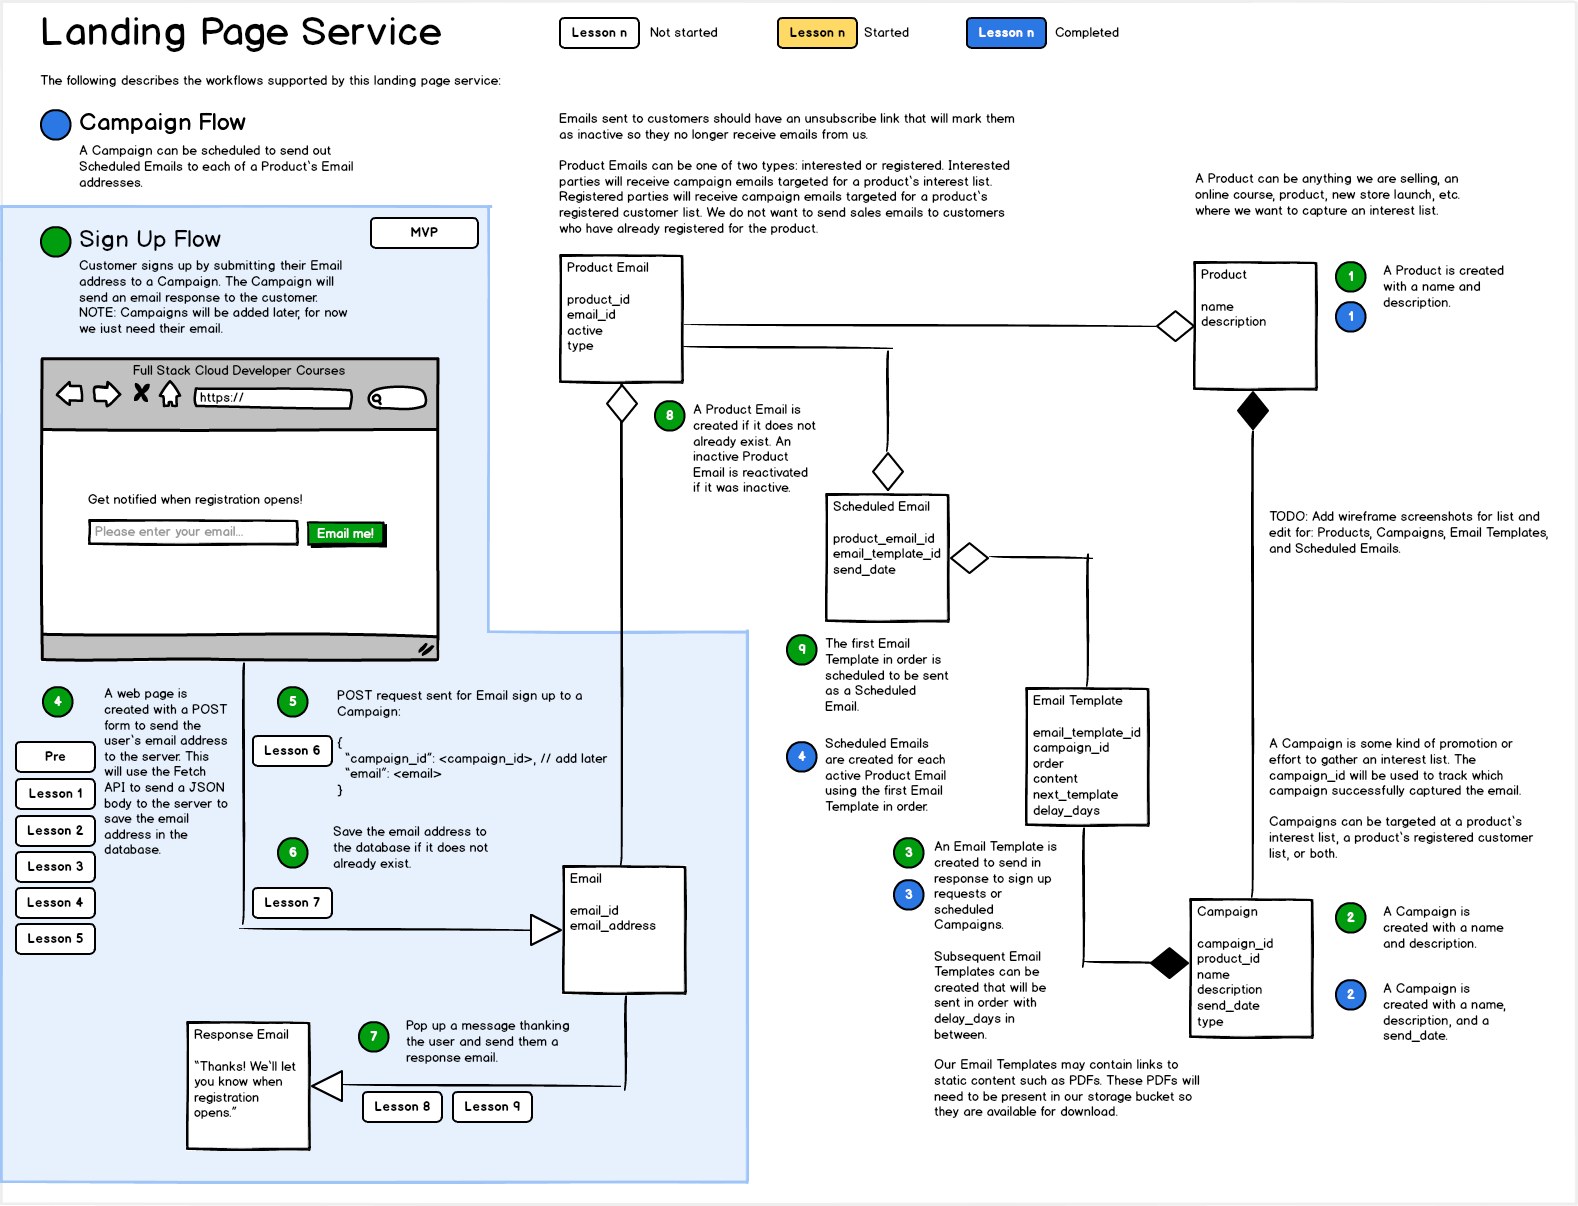
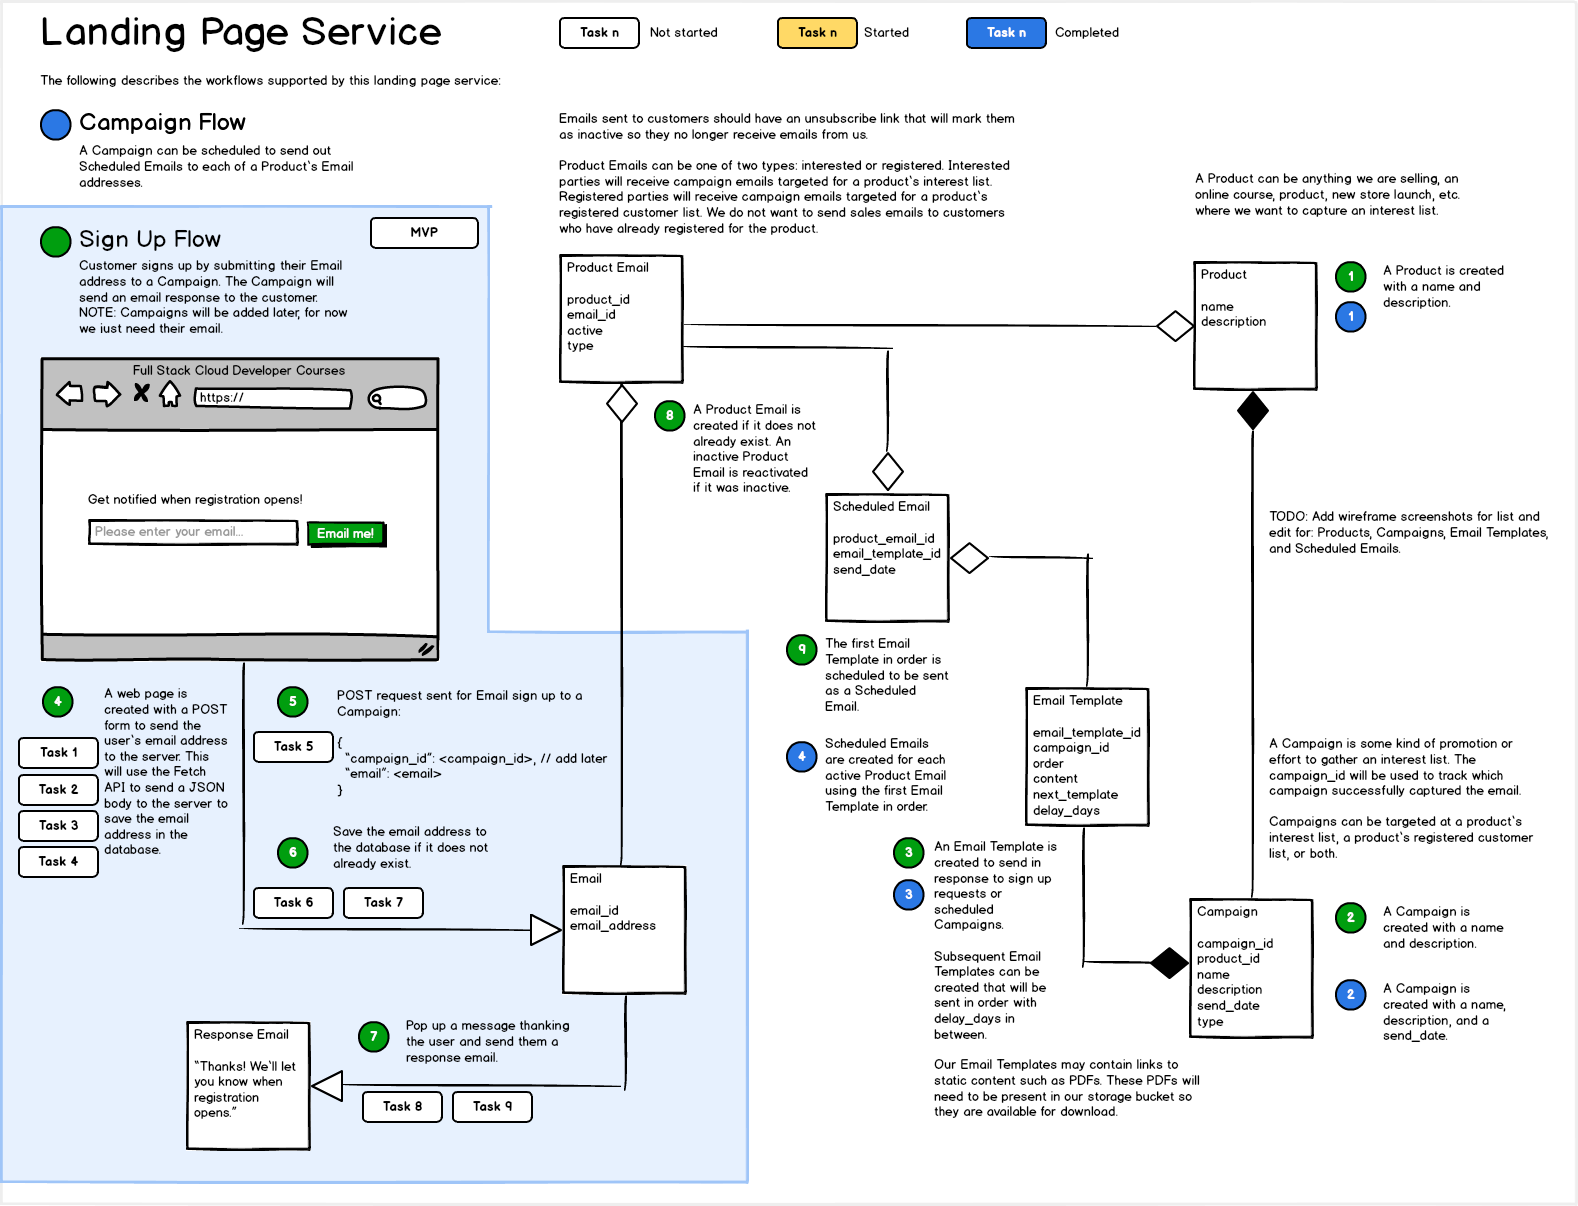
Updated docs.

diff --git a/task_list.md b/task_list.md
@@ -1,0 +1,86 @@
+# Landing Page Service
+
+## Allow customers to register with their email (post request to database, send email)
+
+## Publish landing page
+
+* Task 1: Get an application server running locally with template landing page
+* Task 2: Get template landing page hosted on the Internet
+* Task 3: Modify the landing page to customize it for our business
+* Task 4: Modify the landing page to send a post request to a url with a fake campaign\_id and the entered email address
+
+## Save email addresses
+
+* Task 5: Create an email endpoint to receive the email post request
+* Task 6: Create a database table to save email addresses
+* Task 7: Save the email address received to the email database table
+
+## Send email response
+
+* Task 8: Modify the email endpoint to send a thank you response email
+* Task 9: Modify the landing page to popup a thank you message
+
+## This is now a functional MVP!
+
+## Process emails (restful processing, database)
+
+## Administrative pages (add authentication)
+
+* Task 10: Create an administrative website for restricted access
+* Task 11: Add authentication to the website for administrative pages
+* Task 12: Add an administrative user account
+
+## Get the list of email addresses (get request to return a list)
+
+* Task 13: Add an endpoint that returns the list of emails
+* Task 14: Add a web page that displays the list of emails
+
+## Add products (post request to create records in the database)
+
+* Task 15: Create a web page to post a product
+* Task 16: Create a product endpoint to receive the product post request
+* Task 17: Create a database table to save products
+* Task 18: Save the product received to the product database table
+
+## Add campaigns (containment database relationships)
+
+* Task 19: Create a web page to post a campaign
+* Task 20: Create a campaign endpoint to receive the campaign post request
+* Task 21: Create a database table to save campaigns
+* Task 22: Save the campaign received to the campaign database table
+
+## Associate emails to products by campaign (aggregate database relationships)
+
+* Task 23: Modify the email endpoint to look up the campaign
+* Task 24: Create a database table to save the product-email associations
+* Task 25: Modify the email endpoint to create the product-email association
+* Task 26: Modify the email listing to show the products an email is interested in
+
+## Email templates (using templates)
+
+* Task 27: Create an email template to use for sending the thank you response email
+* Task 28: Modify the thank you response email to use the template
+* Task 29: Create a web page to post an email template
+* Task 30: Create an endpoint to receive an email template
+* Task 31: Create a database table to save the email template
+* Task 32: Save the email template received to the email template database table
+* Task 33: Use the email template to send the thank you response email
+
+## Scheduling tasks (restful, database, sending emails)
+
+## Schedule email (more restful)
+
+* Task 34: Create an endpoint to receive a scheduled email
+* Task 35: Create a database table to save the scheduled email
+* Task 36: Create a web page to post a scheduled email
+* Task 37: Save the scheduled email to the scheduled email database table
+
+## Send scheduled emails (running scheduled tasks)
+
+* Task 38: Create a scheduled process that sends scheduled emails
+* Task 39: Fetch scheduled emails to send
+* Task 40: Send emails
+
+## Campaign flow (scheduling the next task)
+
+* Task 41: Modify the scheduled process to schedule the next email template as a scheduled email
